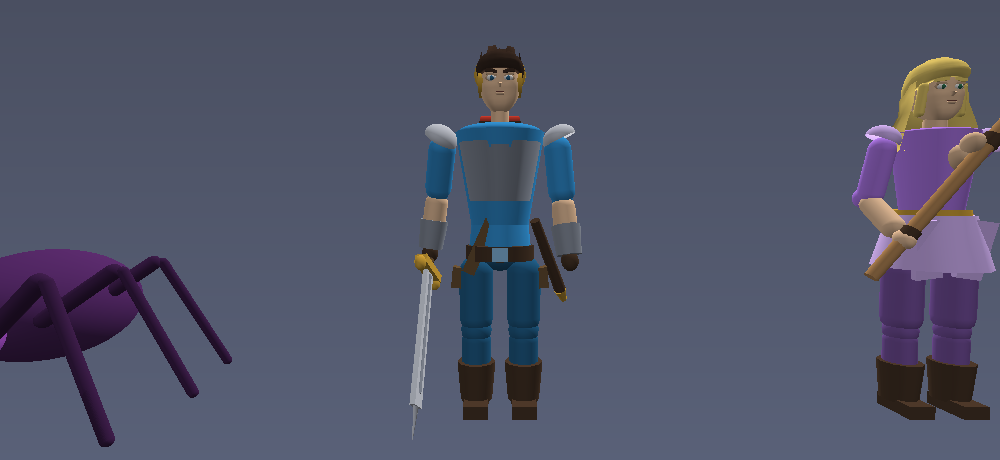
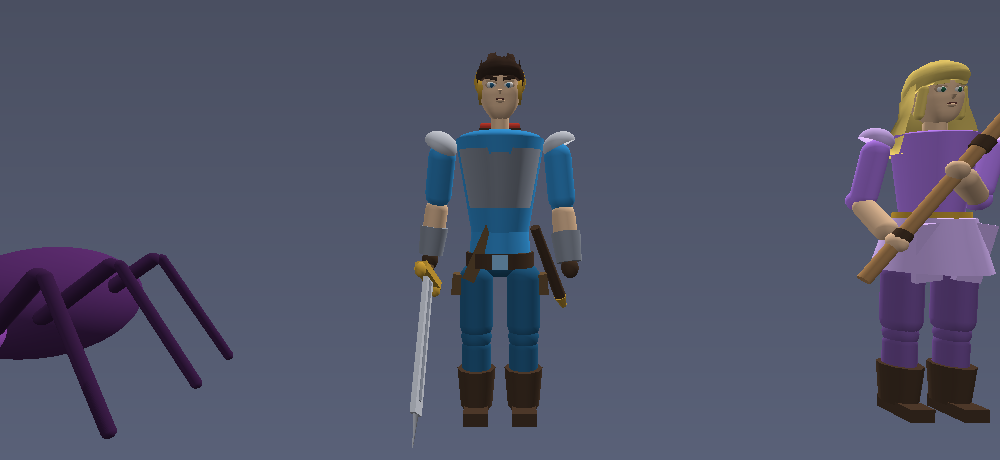
Починил руки Елены: стойка посоха развалилась после сужения плеч
Углы двуручного хвата подбирались при разносе плеч ±0.50. Когда я сузил
его до ±0.44 ради женского силуэта, вся геометрия хвата поехала: левый
локоть уезжал через грудь на x=-0.05, предплечье пряталось ВНУТРИ
габарита корпуса (x -0.24..0.06 при теле ±0.35) и с фронта было видно
только торец — руки читались обрубками.

Разнос плеч возвращён к 0.50 для обоих: от него зависит хват посоха, а
женственность даёт талия, таз и толщина конечностей — их не трогал.
Стойка пересчитана под эти плечи: промах хвата 0.018, вылет руки 70 %
(тест требует <75 %), локоть отведён на -0.26.

Следом пересчитаны позы windup и castTarget: значения STAFF_POSES —
добавки к позе покоя, и после смены стойки хват рвался (0.73 и 0.54).
Для castTarget добавлено условие «орб не выше 2.90»: иначе он
приближался к касту на себя, и пропадала разница между приёмами.

Проверено с трёх ракурсов: фронт, 3/4, сбоку.

diff --git a/src/render/models.js b/src/render/models.js
@@ -59,7 +59,8 @@ export function createHumanoid(scene, {
     // плечами, широким тазом и более тонкими конечностями.
     const female = build === 'female';
     const B = {
-        shoulderX: female ? 0.44 : 0.5,      // разнос плеч
+        shoulderX: 0.5,                      // разнос плеч: одинаков —
+                                             // от него зависит хват посоха
         chestTop: female ? 0.70 : 0.78,      // ширина груди сверху
         chestBottom: female ? 0.46 : 0.5,
         waistTop: female ? 0.46 : 0.5,
@@ -825,13 +826,17 @@ export function createHumanoid(scene, {
         // был прижат к рёбрам и «врастал» в бок. Одним углом плеча это не
         // правится — разворот рвал двуручный хват, поэтому стойка
         // пересчитана целиком.
+        // ВАЖНО: углы привязаны к РАЗНОСУ ПЛЕЧ. Когда я сузил его до 0.44
+        // ради женского силуэта, стойка развалилась: левый локоть уезжал
+        // через грудь на x=-0.05, и руки читались обрубками. Разнос плеч
+        // возвращён к 0.5 для обоих, женственность даёт талия и таз.
         shoulderR.rotation.x = 0.23;
         shoulderR.rotation.z = 0.05;
         elbowR.rotation.x = -1.14;
         weaponPivot.rotation.set(1.10, -0.80, -0.10);
 
-        shoulderL.rotation.set(-0.35, 0.50, 0.80);
-        elbowL.rotation.x = -1.98;
+        shoulderL.rotation.set(-0.54, 1.00, 0.05);
+        elbowL.rotation.x = -1.44;
     }
 
     return {

diff --git a/src/render/Animator.js b/src/render/Animator.js
@@ -45,16 +45,16 @@ const SWING_SECONDS = 0.42;
  */
 const STAFF_POSES = {
     castTarget: {
-        shoulderRX: 0.70, shoulderRZ: -0.30, elbowR: 0.00, wrist: 0.23,
-        shoulderLX: 0.90, shoulderLZ: 0.00, elbowL: 0.33,
+        shoulderRX: 0.10, shoulderRZ: -0.30, elbowR: 0.53, wrist: 0.40,
+        shoulderLX: 0.10, shoulderLZ: 0.00, elbowL: 1.00,
     },
     castSelf: {
         shoulderRX: 0.47, shoulderRZ: -1.00, elbowR: -1.07, wrist: 0.53,
         shoulderLX: -0.73, shoulderLZ: 0.00, elbowL: 0.70,
     },
     windup: {
-        shoulderRX: 0.80, shoulderRZ: -0.50, elbowR: -0.60, wrist: 0.30,
-        shoulderLX: 0.30, shoulderLZ: 0.00, elbowL: 1.60,
+        shoulderRX: 0.20, shoulderRZ: -0.50, elbowR: -1.00, wrist: 0.80,
+        shoulderLX: -0.40, shoulderLZ: 0.00, elbowL: 0.20,
     },
 };
 
